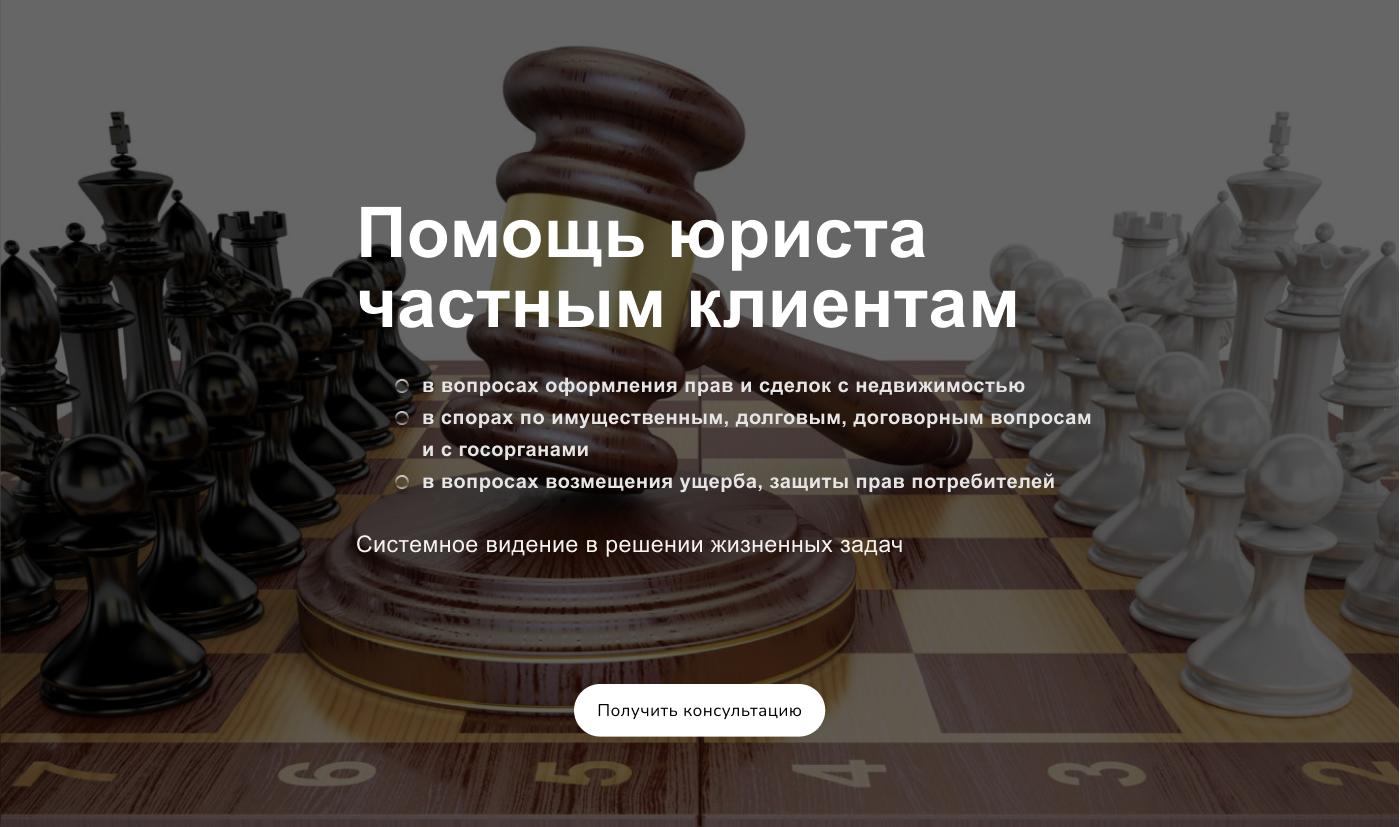
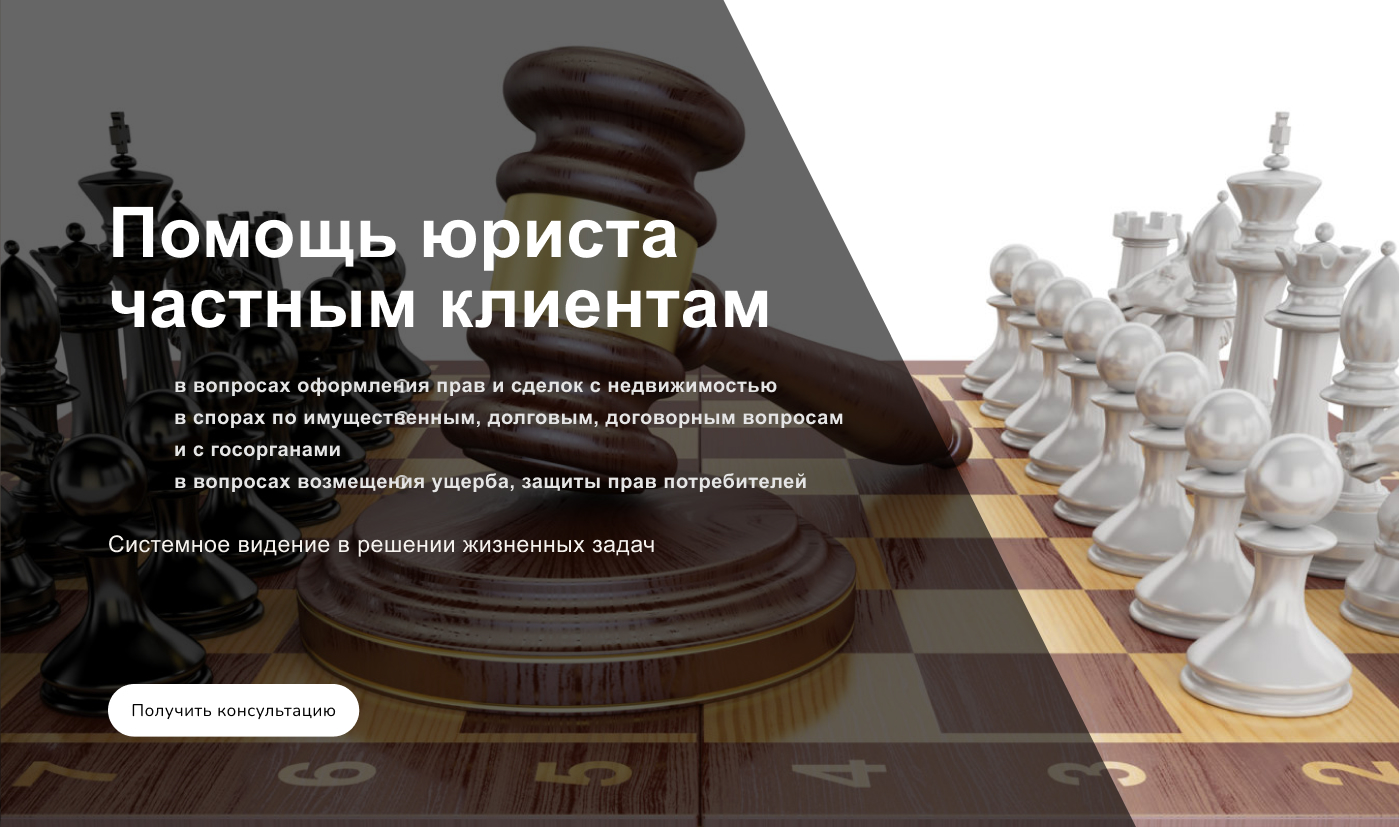
1

diff --git a/style/index.css b/style/index.css
@@ -218,15 +218,15 @@ header nav .nav-item {
 @media screen and (max-width: 1399px) {
   .home .item-1 {
     background-image: url("../images/home/home1-1399.jpg");
-    background-position: center;
+    background-position: left !important;
   }
   .home .item-2 {
     background-image: url("../images/home/home2-1399.jpg");
-    background-position: center;
+    background-position: left !important;
   }
   .home .item-3 {
     background-image: url("../images/home/home3-1399.jpg");
-    background-position: center;
+    background-position: left !important;
   }
 }
 @media screen and (max-width: 991px) {
@@ -289,6 +289,8 @@ header nav .nav-item {
   width: 50%;
   margin-left: auto;
   text-align: justify;
+  background: white;
+  padding: 19px;
 }
 .about h1 {
   font-size: 27px;
@@ -305,7 +307,7 @@ header nav .nav-item {
   font-size: 18px;
 }
 .about .about-img {
-  width: 45%;
+  width: 45.45%;
 }
 @media screen and (max-width: 991px) {
   .about .about-img {

diff --git a/index.html b/index.html
@@ -148,7 +148,7 @@
         <div id="about" class="container pt-5 pb-5 mt-4 mb-4">
             <div class="d-flex align-items-start">
                 <img class="about-img shadow" src="images/about/about.jpg" alt="">
-                <div class="about-card">
+                <div class="about-card shadow">
                     <div class="mb-5">
                         <h1>Приветствую Вас на моем сайте!</h1>
                         <h1>Меня зовут Марина Харченко.</h1>
@@ -746,7 +746,7 @@
                 </form>
 
                 <div class="left-form">
-                    <img class="w-100" src="images/form/form.jpg" alt="">
+                    <img class="w-100 shadow" src="images/form/form.jpg" alt="">
                 </div>
             </div>
         </div>

diff --git a/style/home.less b/style/home.less
@@ -65,17 +65,17 @@
   @media screen and (max-width: 1399px) {
     .item-1 {
       background-image: url("../images/home/home1-1399.jpg");
-      background-position: center;
+      background-position: left !important;
     }
 
     .item-2 {
       background-image: url("../images/home/home2-1399.jpg");
-      background-position: center;
+      background-position: left !important;
     }
 
     .item-3 {
       background-image: url("../images/home/home3-1399.jpg");
-      background-position: center;
+      background-position: left !important;
     }
   }
   @media screen and (max-width: 991px) {

diff --git a/style/about.less b/style/about.less
@@ -5,6 +5,8 @@
     width: 50%;
     margin-left: auto;
     text-align: justify;
+    background: white;
+    padding: 19px;
   }
 
   h1 {
@@ -25,7 +27,7 @@
   }
 
   .about-img {
-    width: 45%;
+    width: 45.45%;
   }
 
   @media screen and (max-width: 991px) {
